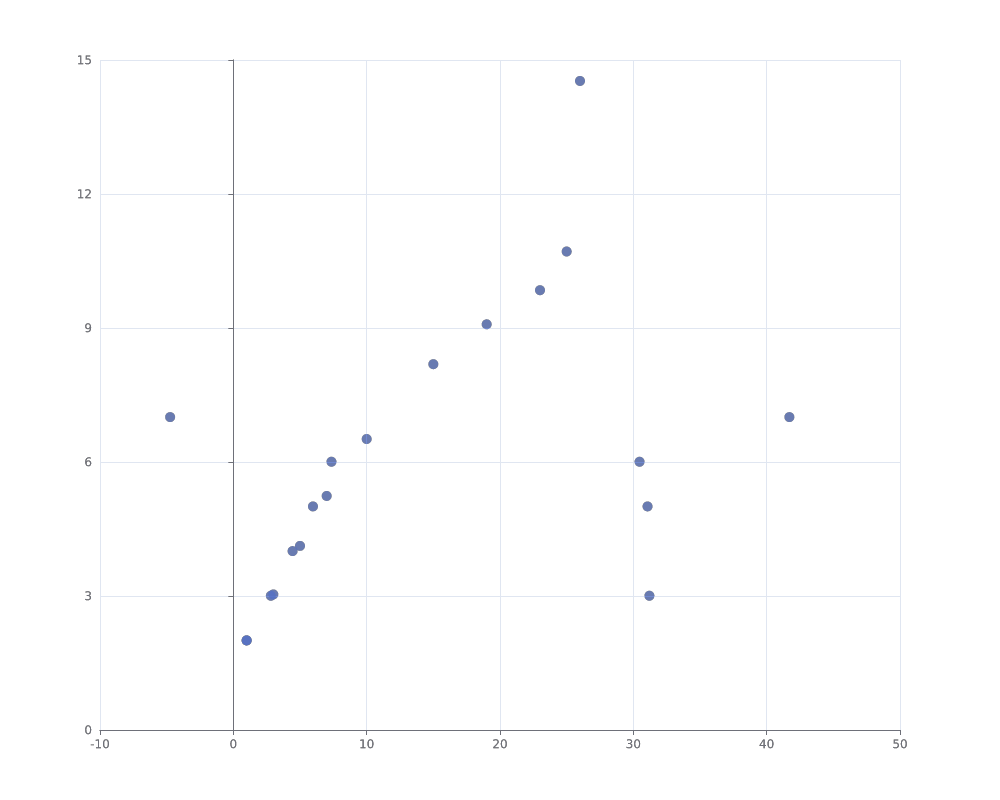
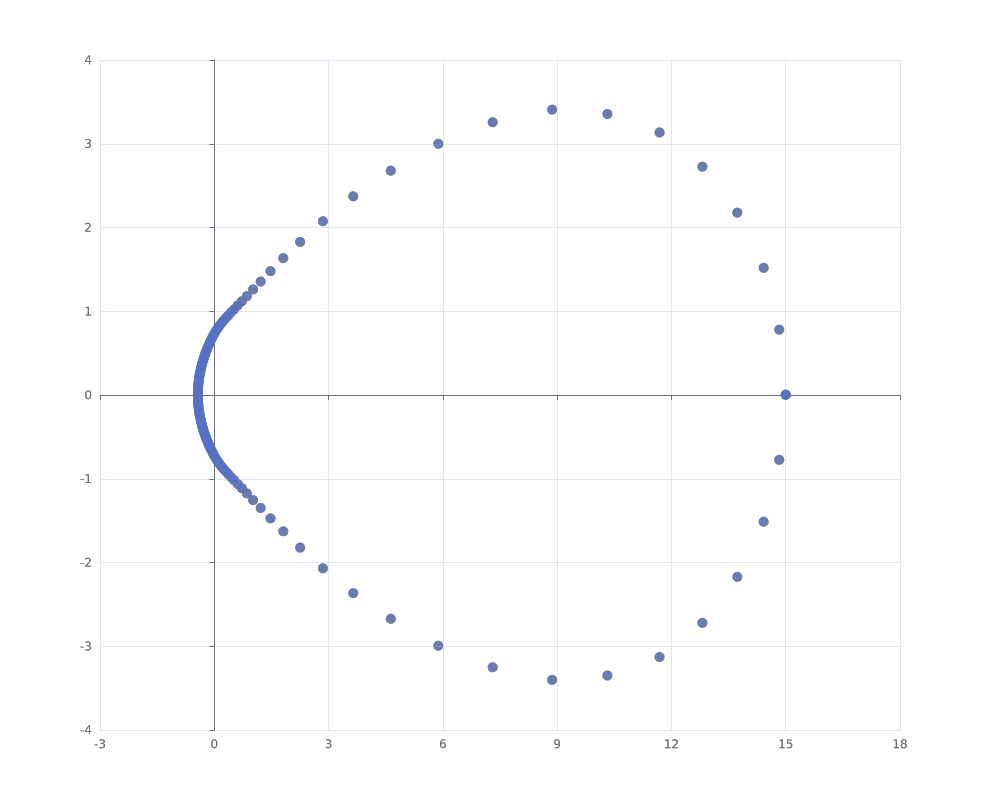
functional ray

diff --git a/lib/contours/src/lib.rs b/lib/contours/src/lib.rs
@@ -1,4 +1,6 @@
-#[derive(Debug, Clone, Copy, PartialEq)]
+use std::f64::consts::PI;
+
+#[derive(Debug, Clone, Copy)]
 pub struct Point {
     pub x: f64,
     pub y: f64
@@ -6,116 +8,35 @@ pub struct Point {
 
 impl Point {
     fn new(x:f64, y:f64) -> Self {
-        Self {
-            x, y
+        Self { x, y }
+    }
+}
+
+fn ray(mut p1:Point, dx:f64, dy:f64, min_error: f64, iter:usize, func: &dyn Fn(&Point) -> f64) -> Point {
+    let mut step_size = 0.1;
+    let mut state = false; // false -> doubling, true -> halving
+
+    for i in 0..iter {
+
+        if func(&p1).abs() < min_error {
+            return p1
+        };
+
+        if func(&p1) <= 0.0 {
+            if step_size > 0.0 { step_size *= -1.0; }
+            if !state { state = true; }
+        } else {
+            if step_size < 0.0 { step_size *= -1.0; }
         }
+
+
+        step_size *= if state {0.5} else {2.0};
+        p1.x += dx*step_size; p1.y += dy*step_size;
+
     }
 
+    return p1;
 }
-
-#[derive(Debug, Clone, Copy, PartialEq)]
-struct ComputedPoint {
-    point: Point,
-    value: f64
-}
-
-#[derive(Debug, Clone, Copy, PartialEq)]
-pub struct Edge {
-    pub a: Point,
-    pub b: Point
-}
-
-#[derive(Debug, Clone, Copy, PartialEq)]
-pub struct ComputedEdge {
-    pub a: ComputedPoint,
-    pub b: ComputedPoint
-}
-
-#[derive(Debug, Clone, Copy, PartialEq)]
-pub struct Bounds {
-    pub min: Point,
-    pub max: Point
-}
-
-fn interp(edge: ComputedEdge) -> Point {
-    if (edge.b.value - edge.a.value).abs() == 0.0 {
-        return edge.a.point;
-    }
-
-    let t = (0.0 - edge.a.value) / (edge.b.value - edge.a.value);
-
-    Point {
-        x: edge.a.point.x + t * (edge.b.point.x - edge.a.point.x),
-        y: edge.a.point.y + t * (edge.b.point.y - edge.a.point.y),
-    }
-}
-
-
-
-fn marching_squares(func: &dyn Fn(f64, f64) -> f64, bounds: Bounds, resolution: usize, threshold: f64) -> Vec<Point> {
-    let mut result: Vec<Point> = vec![];
-    let mut map: Vec<ComputedPoint> = vec![];
-
-    for y in (bounds.min.y as usize..=bounds.max.y as usize).step_by(resolution) {
-        for x in (bounds.min.x as usize..=bounds.max.x as usize).step_by(resolution) {
-            let value = func(x as f64, y as f64);
-            map.push(ComputedPoint{
-                point: Point {
-                    x: x as f64,
-                    y: y as f64
-                },
-                value: value
-            });
-        }
-    }
-
-    let width = (bounds.max.x as usize - bounds.min.x as usize) / resolution + 1;
-    let height = (bounds.max.y as usize - bounds.min.y as usize) / resolution + 1;
-
-    let mut contour:Vec<Edge> = vec![];
-
-    for y in 1..height - 1 {
-        for x in 1..width - 1 {
-            let i = y * width + x;
-            let I = map[i];
-            let PT = I.value >= threshold;
-
-            let N = map[i - width];                     
-            let E = map[i + 1];                 
-            let S = map[i - width];         
-            let W = map[i - 1];             
-
-            
-            let NT = N.value >= threshold;
-            let ET = E.value >= threshold;
-            let ST = S.value >= threshold;
-            let WT = W.value >= threshold;
-            
-            if (NT != PT && ET != PT) {
-                contour.push(Edge{a: interp(ComputedEdge{a: I, b: N}), b: interp(ComputedEdge{a: I, b: E})});
-            }
-
-            if (ET != PT && ST != PT) {
-                contour.push(Edge{a: interp(ComputedEdge{a: I, b: E}), b: interp(ComputedEdge{a: I, b: S})});
-            }
-
-            if (ST != PT && WT != PT) {
-                contour.push(Edge{a: interp(ComputedEdge{a: I, b: S}), b: interp(ComputedEdge{a: I, b: W})});
-            }
-
-            if (WT != PT && NT != PT) {
-                contour.push(Edge{a: interp(ComputedEdge{a: I, b: W}), b: interp(ComputedEdge{a: I, b: N})});
-            }
-        }
-    }
-
-    for c in contour {
-        result.push(c.a);
-    }
-
-    result
-}
-
 
 
 pub fn find_contours(threshold: f64, func: &dyn Fn(f64, f64) -> f64) -> Vec<Point> {
@@ -123,10 +44,23 @@ pub fn find_contours(threshold: f64, func: &dyn Fn(f64, f64) -> f64) -> Vec<Poin
         func is assumed to be a vertically symmetrical ~ellipsoid blur centered around (0, 0)
      */
 
-    let bounds = Bounds{
-        min: Point { x: -1000.0, y: -1000.0 },
-        max: Point { x: 1000.0, y: 1000.0 },
-    };
     
-    return marching_squares(func, bounds, 1, threshold);
+    let nfunc = |point:&Point| func(point.x, point.y) - threshold;
+
+    
+    let mut contour: Vec<Point> = vec![];
+
+    for degree in (0..361).step_by(360 / 100) {
+        
+        let dx = (degree as f64 * PI / 180.0).cos();
+        let dy = (degree as f64 * PI / 180.0).sin();
+
+        println!("{:?} {:?}", dx, dy);
+
+        let found = ray(Point::new(0.0, 0.0), dx, dy, 1.0, 100, &nfunc);
+        contour.push(found);
+    }
+
+    contour
+
 }

diff --git a/src/main.rs b/src/main.rs
@@ -47,7 +47,7 @@ fn main() {
     save_grayscale_image(image, 2000, 2000, "plot.png");
 
 
-    let contour = find_contours(10.0, &|x:f64, y:f64| w.dose(x, y));
+    let contour = find_contours(100.0, &|x:f64, y:f64| w.dose(x, y));
     println!("{:?}", contour);
     println!("Hello, world!");
 
